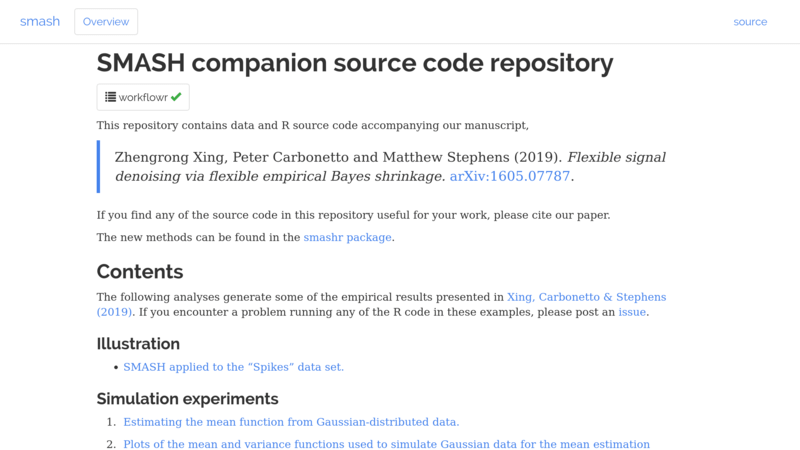
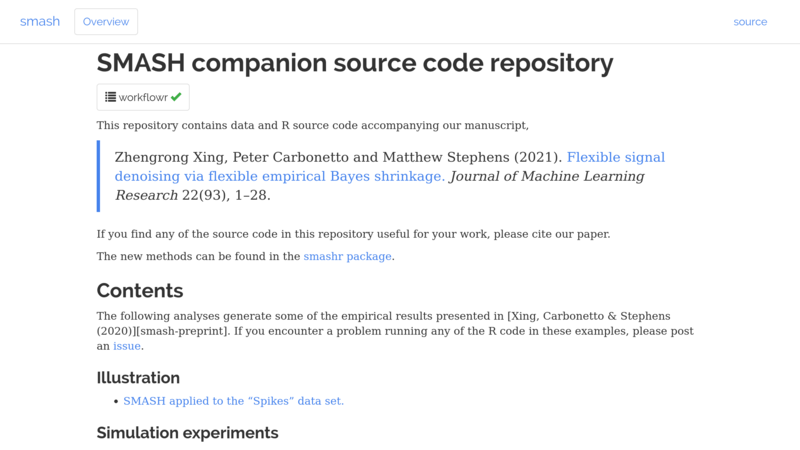
Update GitHub.

diff --git a/content/projects/github/stephenslab/rss/index.md b/content/projects/github/stephenslab/rss/index.md
@@ -1,14 +1,17 @@
 ---
 date: '2015-09-28T22:49:45Z'
 description: Regression with Summary Statistics.
-lastmod: '2021-03-05T19:59:48Z'
+lastmod: '2021-06-07T16:17:34Z'
 title: rss
 topics:
-- genetics
 - bayesian-methods
 - gwas-summary-statistics
 - mcmc
 - variational-inference
+- heritability
+- genetic-associations
+- enrichment-analysis
+- gene-prioritization
 platform: github
 account: stephenslab
 website: https://stephenslab.github.io/rss/

diff --git a/content/projects/github/xiangzhu/rss-gsea/index.md b/content/projects/github/xiangzhu/rss-gsea/index.md
@@ -4,11 +4,13 @@ description: Full results to accompany Zhu and Stephens (2018).
 lastmod: '2019-03-28T19:04:07Z'
 title: rss-gsea
 topics:
-- gene-set-enrichment
-- pathway-analysis
 - variational-inference
 - gwas-summary-statistics
 - bayesian-methods
+- gene-prioritization
+- enrichment-analysis
+- biological-pathways
+- gene-sets
 platform: github
 account: xiangzhu
 website: https://xiangzhu.github.io/rss-gsea/

diff --git a/content/projects/github/stephenslab/smash-paper/index.md b/content/projects/github/stephenslab/smash-paper/index.md
@@ -1,7 +1,7 @@
 ---
 date: '2014-03-19T18:50:42Z'
-description: 'Source code & data accompanying Xing, Carbonetto & Stephens (2019). '
-lastmod: '2020-06-26T04:19:51Z'
+description: 'Source code & data accompanying Xing, Carbonetto & Stephens (2021). '
+lastmod: '2021-06-07T14:19:39Z'
 title: smash-paper
 topics: []
 platform: github

diff --git a/content/projects/github/stephens999/fiveMinuteStats/index.md b/content/projects/github/stephens999/fiveMinuteStats/index.md
@@ -1,7 +1,7 @@
 ---
 date: '2015-06-14T14:23:27Z'
 description: A repo of short "vignettes" illustrating statistical concepts
-lastmod: '2021-05-26T13:36:20Z'
+lastmod: '2021-05-30T07:28:55Z'
 title: fiveMinuteStats
 topics: []
 platform: github

diff --git a/content/projects/github/pat-s/2019-feature-selection/index.md b/content/projects/github/pat-s/2019-feature-selection/index.md
@@ -1,7 +1,7 @@
 ---
 date: '2018-02-01T15:49:49Z'
 description: Research project
-lastmod: '2021-05-05T20:00:21Z'
+lastmod: '2021-06-07T09:03:39Z'
 title: 2019-feature-selection
 topics:
 - machine-learning
